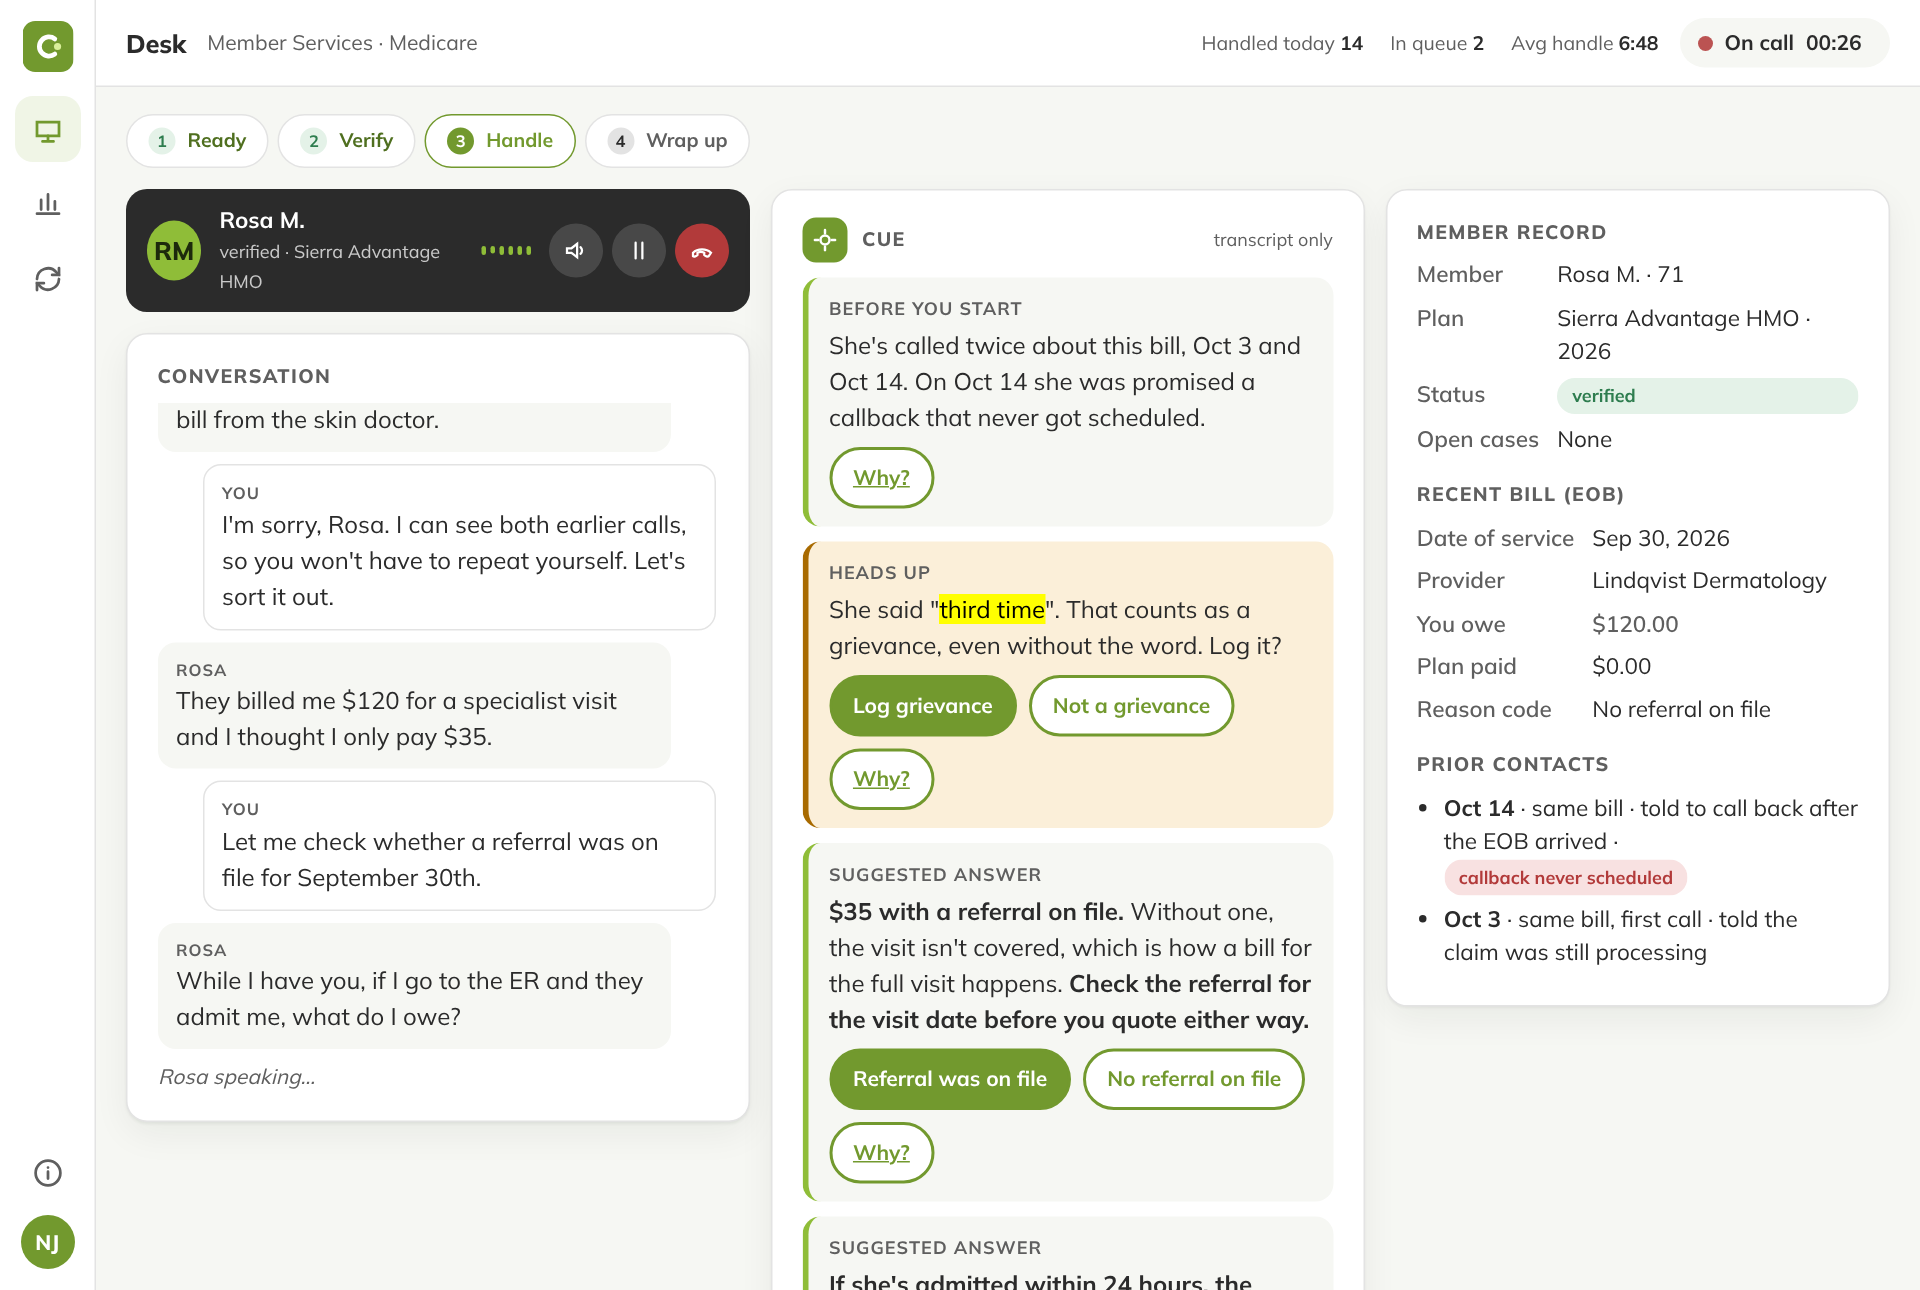
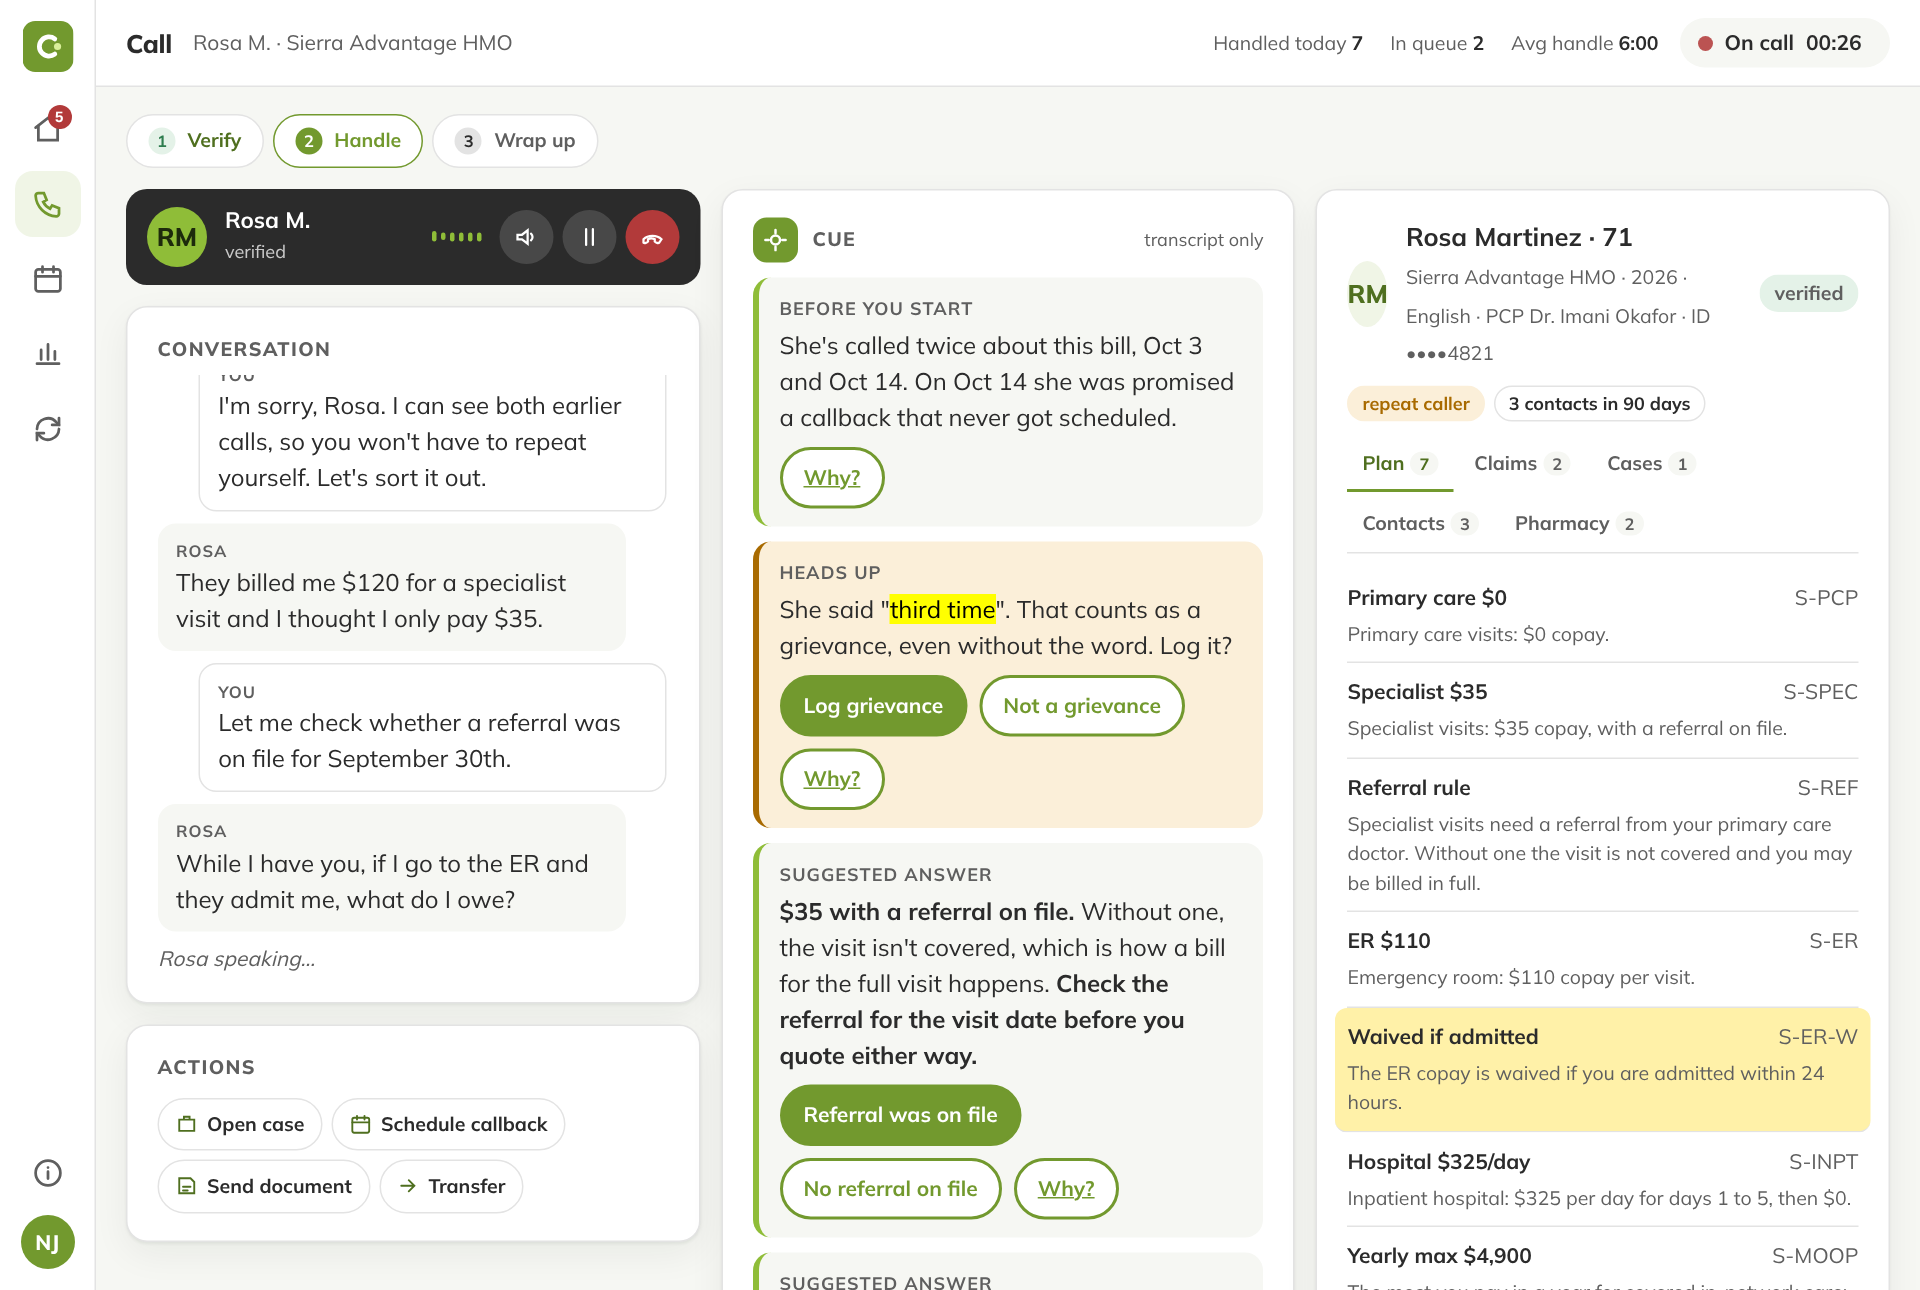
Re-audit fixes: current hero screenshot, single tab row on the architecture page, wrap-up button says where it goes, Rosa's record matches the script, agents section says each is a rule

diff --git a/architecture.html b/architecture.html
@@ -72,15 +72,7 @@ ul.t{margin:6px 0 0 18px;padding:0}ul.t li{margin:4px 0}
     <button role="tab" aria-selected="false" data-v="gov">Governance and loop</button>
     <button role="tab" aria-selected="false" data-v="qa">Questions</button>
   </div></div>
-  <div class="tabs" role="tablist">
-    <button role="tab" aria-selected="true" data-v="where">Where CureCue sits</button>
-    <button role="tab" aria-selected="false" data-v="arch">Architecture</button>
-    <button role="tab" aria-selected="false" data-v="graph">Why a graph</button>
-    <button role="tab" aria-selected="false" data-v="evals">Evals</button>
-    <button role="tab" aria-selected="false" data-v="safety">Safety</button>
-    <button role="tab" aria-selected="false" data-v="gov">Governance and loop</button>
-    <button role="tab" aria-selected="false" data-v="qa">Questions</button>
-  </div></div>
+
 
 <!-- WHERE -->
 <section class="v on" id="v-where">

diff --git a/index.html b/index.html
@@ -79,6 +79,7 @@
 
 <section class="band" id="agents">
   <h2>Six small agents, one job each</h2>
+  <p class="lead">In this prototype each agent is a rule in one shared file, which is what makes the eval exact. The architecture page shows where a model would sit behind each.</p>
   <div class="grid">
     <div class="card agent"><div class="ic"><svg viewBox="0 0 24 24"><path d="M12 3v3M12 18v3M3 12h3M18 12h3"/><circle cx="12" cy="12" r="4"/></svg></div><h4>Listener</h4><p>Confirms identity, remembers prior calls, routes each turn.</p></div>
     <div class="card agent"><div class="ic"><svg viewBox="0 0 24 24"><path d="M12 9v4M12 17h.01"/><path d="M10.3 3.9 2.6 17a2 2 0 0 0 1.7 3h15.4a2 2 0 0 0 1.7-3L13.7 3.9a2 2 0 0 0-3.4 0z"/></svg></div><h4>Sentinel</h4><p>Hears dissatisfaction and asks the advocate to log it.</p></div>

diff --git a/app/index.html b/app/index.html
@@ -307,7 +307,7 @@ textarea{min-height:200px;resize:vertical}
           <h3>Before you approve</h3><ul class="chk" id="checklist"></ul>
           <h3 style="margin-top:16px">Recap to the member</h3><div class="recap" id="recap"></div>
           <div class="ctrl"><button class="btn sm" id="sendrecap" disabled>Send recap by text</button><span class="small" id="sent"></span></div>
-          <div class="ctrl"><button class="btn primary" id="next" disabled>Back to Home</button></div>
+          <div class="ctrl"><button class="btn primary" id="next" disabled>Close call, see my day</button></div>
         </div>
       </div>
     </section>

diff --git a/app/data.js b/app/data.js
@@ -532,7 +532,7 @@
    "by": "Nik J."
   },
   {
-   "member": "M-001",
+   "member": "M-005",
    "day": -9,
    "reason": "ID card",
    "note": "Card mailed",
